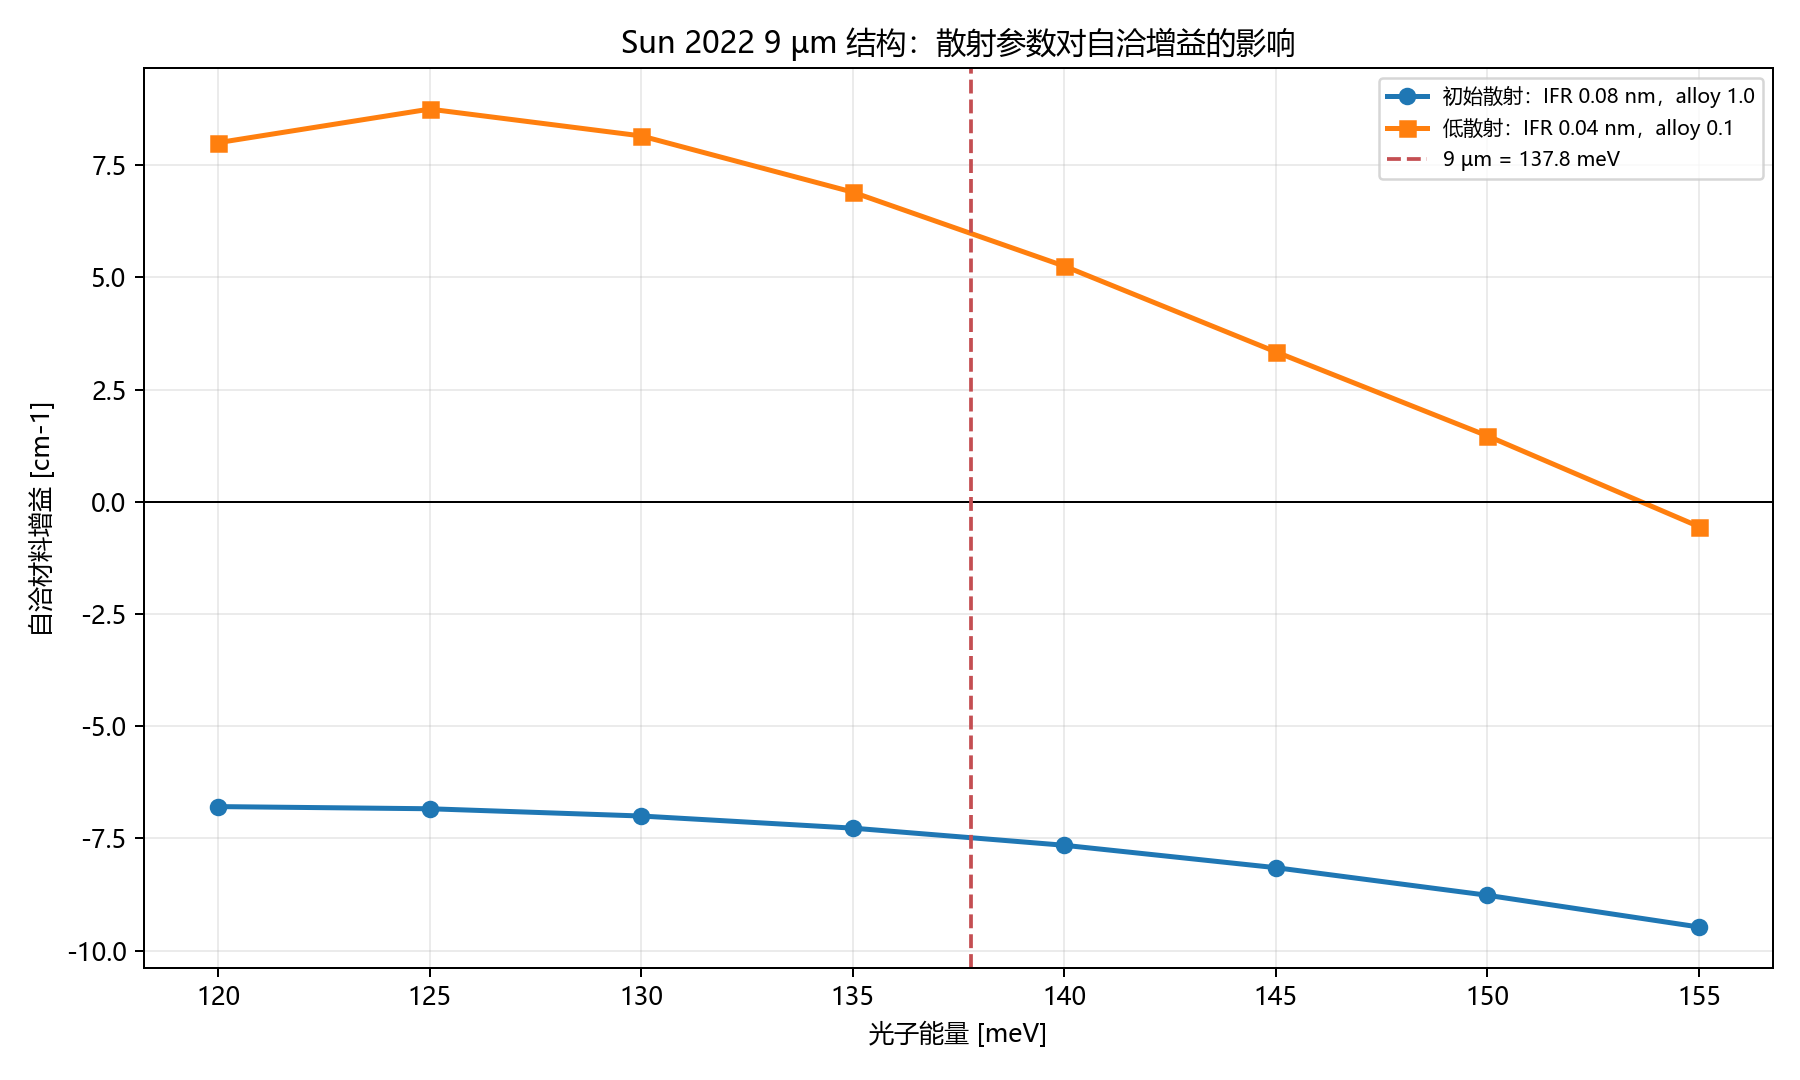
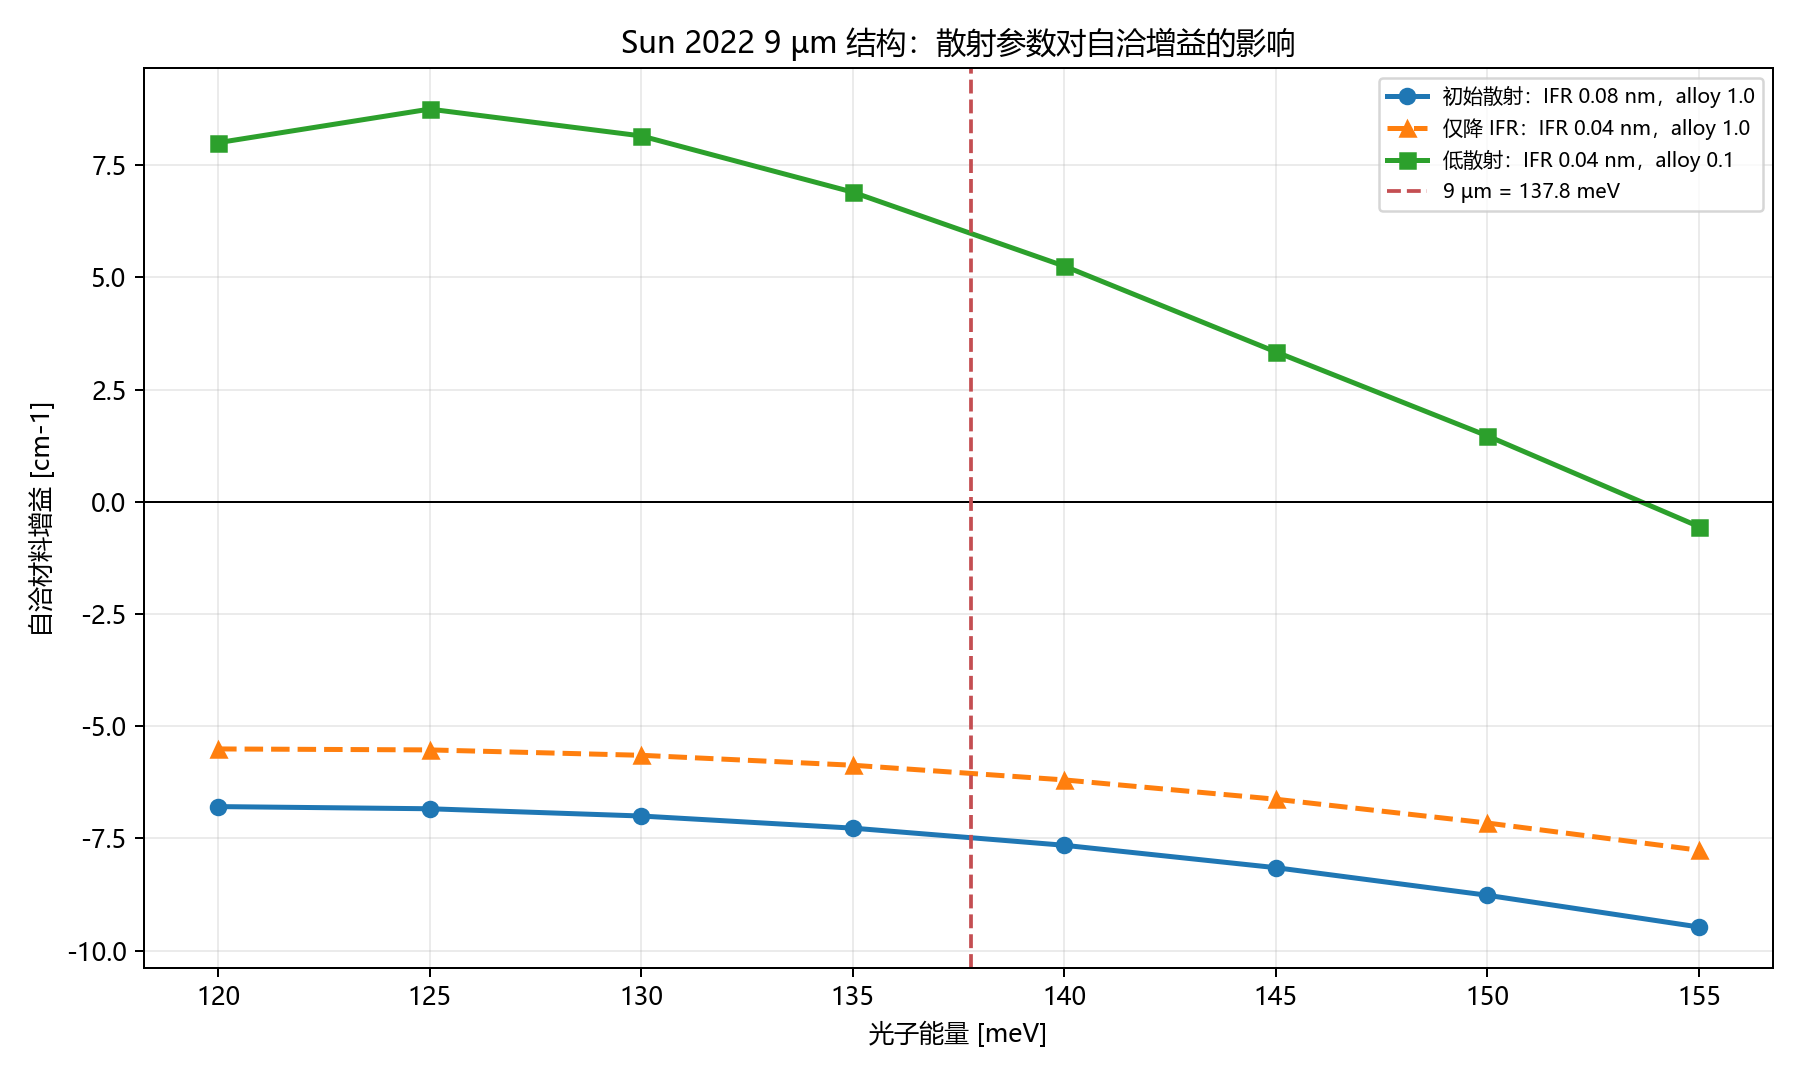
Document physically constrained QCL design criteria

diff --git a/scripts/plot_sun2022_gain.py b/scripts/plot_sun2022_gain.py
@@ -13,6 +13,7 @@ plt.rcParams["axes.unicode_minus"] = False
 ROOT = Path(r"D:\Codex-Obsidian\QCL-nextnano")
 BASE = ROOT / "runs" / "sun2022_mocvd" / "negf_fgr_216mV" / "216.384mV" / "Gain"
 LOW = ROOT / "runs" / "sun2022_mocvd" / "negf_lowscatter_216mV" / "216.384mV" / "Gain"
+IFR = ROOT / "runs" / "sun2022_mocvd" / "negf_ifr004_216mV" / "216.384mV" / "Gain"
 OUT = ROOT / "attachments" / "fig_sun2022_gain_scattering_calibration.png"
 
 
@@ -23,9 +24,11 @@ def read(path):
 
 be, bg = read(BASE / "Gain_SelfConsistent_vs_Energy.dat")
 le, lg = read(LOW / "Gain_SelfConsistent_vs_Energy.dat")
+ie, ig = read(IFR / "Gain_SelfConsistent_vs_Energy.dat")
 
 fig, ax = plt.subplots(figsize=(10, 6))
 ax.plot(be, bg, "o-", lw=2, label="初始散射：IFR 0.08 nm，alloy 1.0")
+ax.plot(ie, ig, "^--", lw=2, label="仅降 IFR：IFR 0.04 nm，alloy 1.0")
 ax.plot(le, lg, "s-", lw=2, label="低散射：IFR 0.04 nm，alloy 0.1")
 ax.axhline(0, color="k", lw=0.8)
 ax.axvline(137.8, color="#c44e52", ls="--", lw=1.5, label="9 µm = 137.8 meV")

diff --git a/scripts/gen_sun2022_ifr_variant.py b/scripts/gen_sun2022_ifr_variant.py
@@ -1,0 +1,28 @@
+# -*- coding: utf-8 -*-
+"""Generate a physically constrained IFR-only variant for Sun 2022."""
+from pathlib import Path
+
+
+BASE = Path(
+    r"D:\Codex-Obsidian\QCL-nextnano\designs"
+    r"\sun2022_mocvd_9um_fgr.negf"
+)
+OUTPUT = Path(
+    r"D:\Codex-Obsidian\QCL-nextnano\designs"
+    r"\sun2022_mocvd_9um_ifr004.negf"
+)
+
+
+def main():
+    text = BASE.read_text(encoding="utf-8")
+    text = text.replace(
+        "Sun 2022 MOCVD 9 um DAU MS QCL, 216.384 mV per period, 300 K, FGR diagnostic.",
+        "Sun 2022 MOCVD 9 um IFR-only sensitivity test: 0.04 nm, standard alloy strength 1.0.",
+    )
+    text = text.replace("AmplitudeInZ = 0.08", "AmplitudeInZ = 0.04")
+    OUTPUT.write_text(text, encoding="utf-8")
+    print(OUTPUT)
+
+
+if __name__ == "__main__":
+    main()

diff --git a/42-QCL物理约束设计原则与实验鲁棒性.md b/42-QCL物理约束设计原则与实验鲁棒性.md
@@ -1,0 +1,163 @@
+# QCL 物理约束设计原则与实验鲁棒性
+
+> 2026-10-23。针对“不要为了凑文献参数而调参”的要求，重新规定本项目的设计哲学：使用物理上有来源、可测量、可接受不确定度的参数范围，追求实验可复现和设计裕量，而不是让单一隐藏参数把仿真结果推向目标值。
+
+## 1. 先澄清“第一性原理”
+
+nextnano++ k·p 和 nextnano.NEGF 不是从原子核与电子波函数出发的 DFT 第一性原理工具。它们属于：
+
+```text
+应变 + 8-band k·p + 有效质量/非抛物性
++ Poisson + NEGF + 声子/粗糙度/合金散射
+```
+
+因此正确的目标是“**物理约束的多尺度模型**”：
+
+- 材料参数有明确来源；
+- 不确定参数给出范围，而不是单点拟合；
+- 设计在参数范围内保持性能；
+- 最终用独立实验量验证，而不是只与同一篇论文的理论数字对齐。
+
+## 2. 参数可信度分级
+
+### A 级：直接制造参数
+
+| 参数 | 来源 | 设计处理 |
+|---|---|---|
+| 层厚 | 论文层序、XRD | 直接使用；允许生长误差 ±0.1–0.2 nm |
+| 合金组分 | 论文/HRXRD | 允许 ±0.01 |
+| 周期 | 层厚求和、XRD | 45.08 nm 与 XRD 一致 |
+| 掺杂片密度 | 下划线层厚 × 体浓度 | 6.86×10¹⁰ cm⁻²，与论文一致 |
+| 设计场 | 论文 48 kV/cm | 同时扫描允许区间 |
+
+### B 级：标准材料模型
+
+| 参数 | 处理原则 |
+|---|---|
+| 有效质量 | 使用同一套 k·p 来源，禁止为了波长单独修改 |
+| 非抛物性 | 与有效质量成套；不能只改一个 |
+| 导带带阶 | 采用材料/应变模型，并明确记录输入值与最终带边值 |
+| 能带偏移 | 用同体系已知材料交叉核对，不任意拟合 |
+
+### C 级：微观散射参数
+
+| 参数 | 当前认识 |
+|---|---|
+| IFR 幅值 Δ | 0.04–0.08 nm 可作为合理比较区间 |
+| 相关长度 Λ | 7–10 nm，但缺少本样品直接测量 |
+| 合金散射强度 | 标准模型 1.0；0.1 只能作为敏感性边界 |
+| 界面渐变 | 需要与 AFM/XRD/EL 线宽联合标定 |
+
+原则：**C 级参数不能单独用于“制造”正增益。** 如果一个设计只有在 C 级参数取最乐观值时才能激射，应判定为设计裕量不足。
+
+## 3. 本案例的参数审计
+
+Sun 2022 结构：
+
+```text
+周期：45.08 nm
+材料：In0.593Ga0.407As / Al0.638In0.362As
+片密度：6.86e10 cm^-2
+设计场：48 kV/cm
+```
+
+k·p：
+
+```text
+9 µm 分支：135.26 meV，9.17 µm
+偶极：1.29 nm
+```
+
+这属于“结构解释正确”的强证据。
+
+NEGF：
+
+| 散射设定 | 电流 kA/cm² | 自洽@135 | 解释 |
+|---|---:|---:|---|
+| alloy 1.0，IFR 0.08 | 4.07 | −7.27 | 标准模型，不激射 |
+| alloy 1.0，IFR 0.04 | 3.46 | −5.87 | 仅降低 IFR 仍不足 |
+| alloy 0.1，IFR 0.04 | 2.32 | +6.90 | 敏感性上界，不可当材料事实 |
+
+因此现阶段不能宣称 NEGF 已完整复现文献。
+
+## 4. 面向实验的设计判据
+
+一个结构进入外延之前，至少满足：
+
+| 判据 | 目标 |
+|---|---|
+| 波长 | k·p 目标 ±0.3 µm；同时保留应变/层厚容差 |
+| 偶极 | >1.2 nm |
+| 上态隔离 | E54≥50–60 meV |
+| 下态抽取 | 抽取寿命小于上态寿命的合理模型值 |
+| 阈值 | 标准材料模型下 Jth≤2 kA/cm² 量级 |
+| 增益 | 钳制模态增益 ≥ 损耗 + 至少 1 cm⁻¹ 设计裕量 |
+| 敏感性 | ±0.15 nm 层厚、±0.01 组分下仍保持目标波长 |
+| 生长 | 应变平衡、周期可由 XRD 验证、薄垒可重复 |
+
+不能采用的判据：
+
+- 只看 FGR 正增益；
+- 只把文献寿命作为拟合目标；
+- 通过降低合金散射让设计“过线”；
+- 在单一偏压、单一散射参数下判定成功。
+
+## 5. 从“调参”改为“辨识”
+
+正确的参数辨识顺序：
+
+1. 固定 A 级制造参数；
+2. 用 k·p 与已知光学跃迁确定 B 级材料组合；
+3. 用 EL 线宽、寿命和温度依赖辨识 C 级散射范围；
+4. 所有参数保留不确定区间；
+5. 对设计做全区间评估，而非寻找单点最优。
+
+对 Sun 2022：
+
+- 不应把 `E4=1.27 ps,E3=2.02 ps` 直接作为两个调参旋钮；
+- 应先明确 NEGF 输出的哪一个全局态与论文局域态对应；
+- 若状态映射不唯一，就用“寿命范围”和“EL 线宽”共同验证，而不是强行拟合两个数。
+
+## 6. 实验可制造性意见
+
+对于 9 µm InP 基应变补偿 DAU/MS：
+
+1. 周期和层厚用 HRXRD 卫星峰确认；
+2. 薄垒 0.88/1.0/1.09 nm 是 MOCVD 的关键控制点；
+3. 应优先保证低 IFR、稳定界面开关和低背景掺杂；
+4. 50 级主动区必须验证平均应变接近零；
+5. 掺杂片密度通过 C-V/Hall 与结构模拟交叉确认；
+6. 4 mm 腔、HR 后腔面、低损耗 InP 波导和良好散热是激射裕量的一部分；
+7. 仿真仅验证材料增益，不能替代波导损耗、热阻和工艺容差评估。
+
+## 7. 下一阶段的设计决策
+
+当前不建议把 `alloy=0.1` 的低散射结构作为设计基线。更稳妥的路线是：
+
+### 路线 A：复现优先
+
+保留 Sun 2022 完全相同的层序和外延工艺参数，以实验上已验证的 1.52 kA/cm² 器件为目标。NEGF 的负结果作为“模型不完整”的证据，不据此修改真实层序。
+
+### 路线 B：正向设计
+
+用标准材料参数和合理散射范围建立一组结构：
+
+- 保持 9 µm 能级；
+- 调整发射阱和注入垒，使增益峰落在 135–140 meV；
+- 在标准合金散射下比较；
+- 要求参数扰动后仍维持正钳制裕量。
+
+只有路线 B 中跨参数范围通过的结构，才进入实验版图设计。
+
+## 8. 验收结论
+
+```text
+可接受：结构解释正确、波函数与偶极合理、参数来源可追溯、设计对误差有裕量
+不可接受：依赖极低合金散射、单一偏压、单一层厚或 FGR 正峰才成立
+```
+
+## 相关笔记
+
+- [[41-文献复现-Sun2022-9um-MOCVD-DAU]]
+- [[40-官方Bai-APL2011-NEGF工作流校准]]
+- [[36-QCL设计法则与全外延结构权衡]]

diff --git a/41-文献复现-Sun2022-9um-MOCVD-DAU.md b/41-文献复现-Sun2022-9um-MOCVD-DAU.md
@@ -133,6 +133,8 @@ LO phonon: 约 1.4–6.3 ps^-1
 
 ## 6. 低散射校准
 
+> 重要：本节用于敏感性分析，不是最终物理设计依据。`alloy=0.1` 不应当作已证明的材料参数。
+
 保持结构、掺杂、偏压和 CBO 不变，仅调整：
 
 ```text
@@ -158,6 +160,19 @@ AlloyScatteringStrength: 1.0 -> 0.1
 2. 9–10 µm 窗口出现正自洽增益；
 3. 文献强调的高 T₁、低 IFR 与这一趋势一致；
 4. 但增益峰仍偏长波，约 9.9 µm，9 µm 处于较低一侧。
+
+### 只降低 IFR 的对照
+
+为区分 IFR 与合金散射，保持标准 `alloy=1.0`，只把 IFR 从 0.08 降到 0.04 nm：
+
+| 量 | 初始 | 仅低 IFR | 低 IFR + 低合金 |
+|---|---:|---:|---:|
+| 电流 | 4.07 | 3.46 | 2.32 kA/cm² |
+| 电子温度 | 1666 | 2132 | 1453 K |
+| FGR@135 | +2.66 | +2.26 | +7.45 |
+| 自洽@135 | −7.27 | −5.87 | +6.90 |
+
+结论：单靠更低 IFR 不能恢复可持续增益。先前正增益主要来自把合金散射强度降到 0.1，因此该结果只能作为敏感性上界。
 
 ## 7. 9 µm 固定光模钳制
 

diff --git a/README.md b/README.md
@@ -75,6 +75,7 @@
 - [[39-8um-NEGF校准-偏压掺杂与CBO]]（文献点、220–260 mV、低掺杂和 CBO 对照）
 - [[40-官方Bai-APL2011-NEGF工作流校准]]（官方已知激射案例成功复现钳制增益 = 腔损耗）
 - [[41-文献复现-Sun2022-9um-MOCVD-DAU]]（9 µm 结构完整层序、k·p 复现与 NEGF 散射校准）
+- [[42-QCL物理约束设计原则与实验鲁棒性]]（参数可信度分级、禁止用非物理调参制造正增益）
 
 ## 一句话设计流程
 
